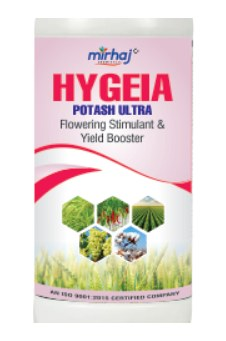
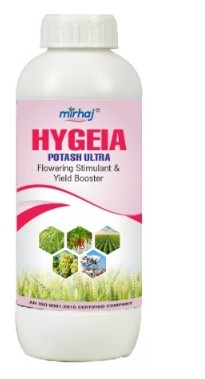
Use the full Hygeia Potash Ultra bottle photo.
Replace the cropped catalogue cut with the complete pack.

diff --git a/src/data/catalogue.ts b/src/data/catalogue.ts
@@ -19,7 +19,7 @@ export const CATEGORIES: { id: Category; label: string }[] = [
   { id: "pgr", label: "PGR & fertilizer" },
 ];
 
-const FULL_BOTTLES = new Set(["miraxima-plus", "merofex-super", "sejjil", "meribion"]);
+const FULL_BOTTLES = new Set(["miraxima-plus", "merofex-super", "sejjil", "meribion", "hygeia-potash-ultra"]);
 
 export function packPhoto(slug: string) {
   const version = FULL_BOTTLES.has(slug) ? "bottle" : "catalogue";
